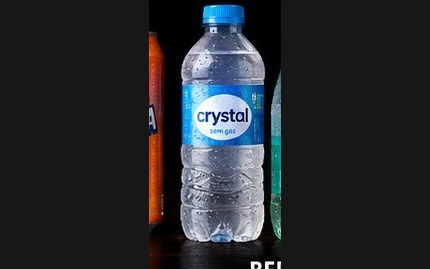
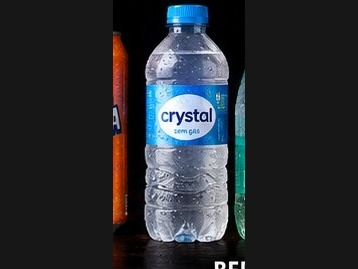
Reenquadrar as 18 fotos num formato único (4:3) com fundo escuro, garantindo que o produto inteiro sempre apareça, sem cortes

Changed region(s): [[0.3073, 0.0, 0.7067, 1.0], [0.3073, 0.8922, 0.3687, 1.0]]

diff --git a/src/styles/Cliente/CardapioMesa.css b/src/styles/Cliente/CardapioMesa.css
@@ -410,14 +410,14 @@ body.dark .produto-esgotado {
 .cardapio-produto-foto-wrap {
   position: relative;
   width: 100%;
-  aspect-ratio: 16 / 10;
+  aspect-ratio: 4 / 3;
   background: #1c1c1c;
 }
 
 .cardapio-produto-foto {
   width: 100%;
   height: 100%;
-  object-fit: cover;
+  object-fit: contain;
   display: block;
 }
 
